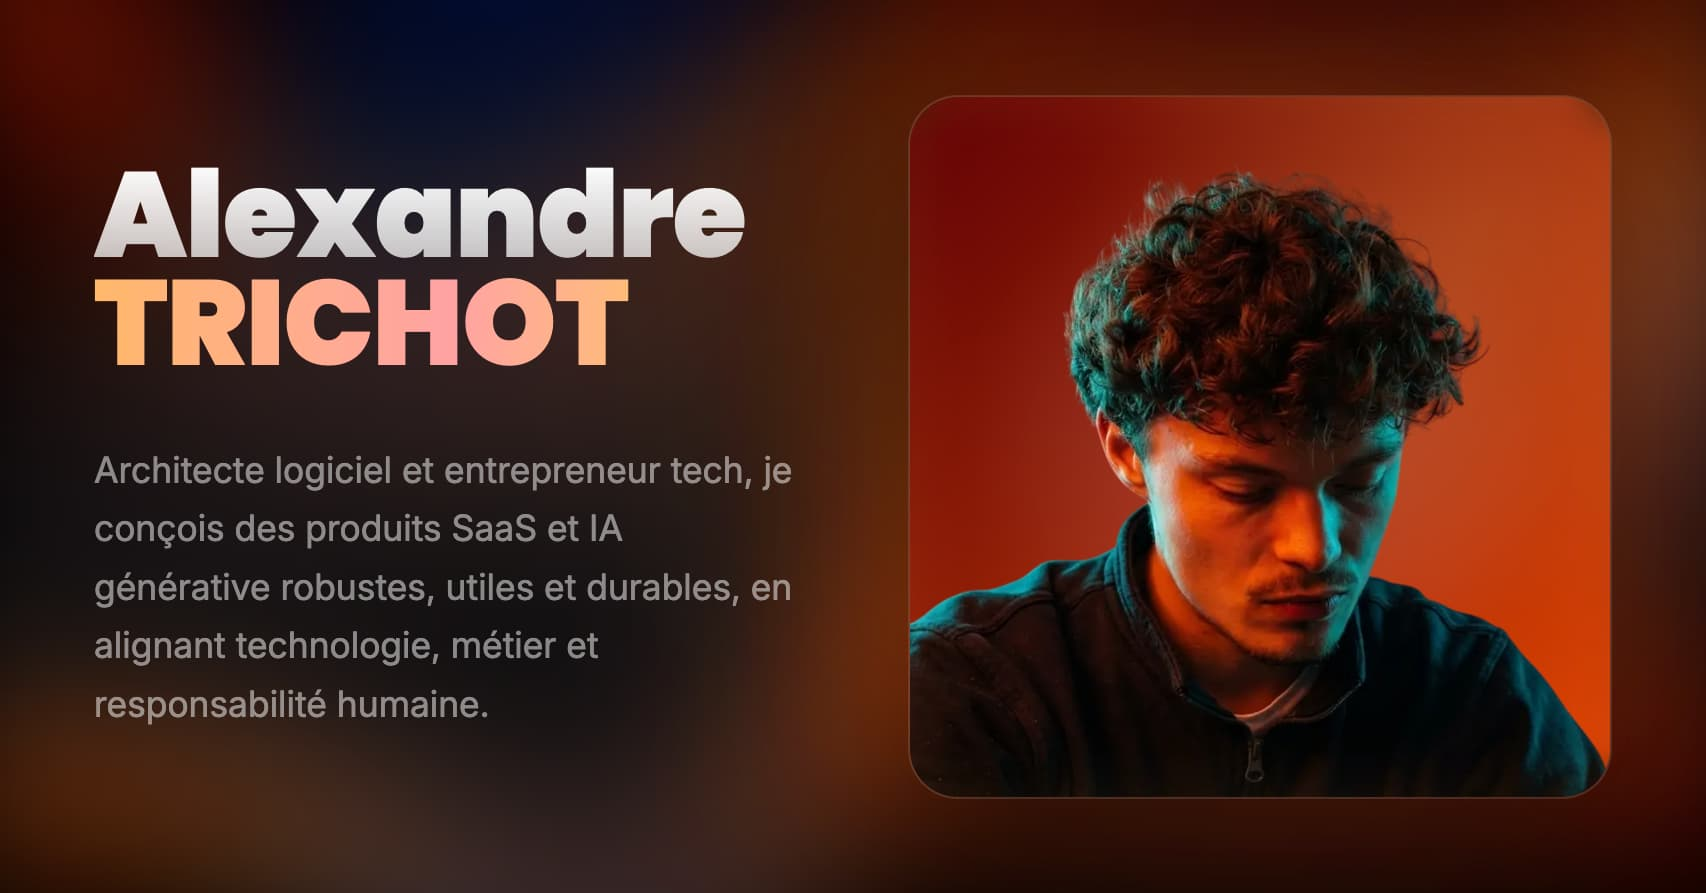
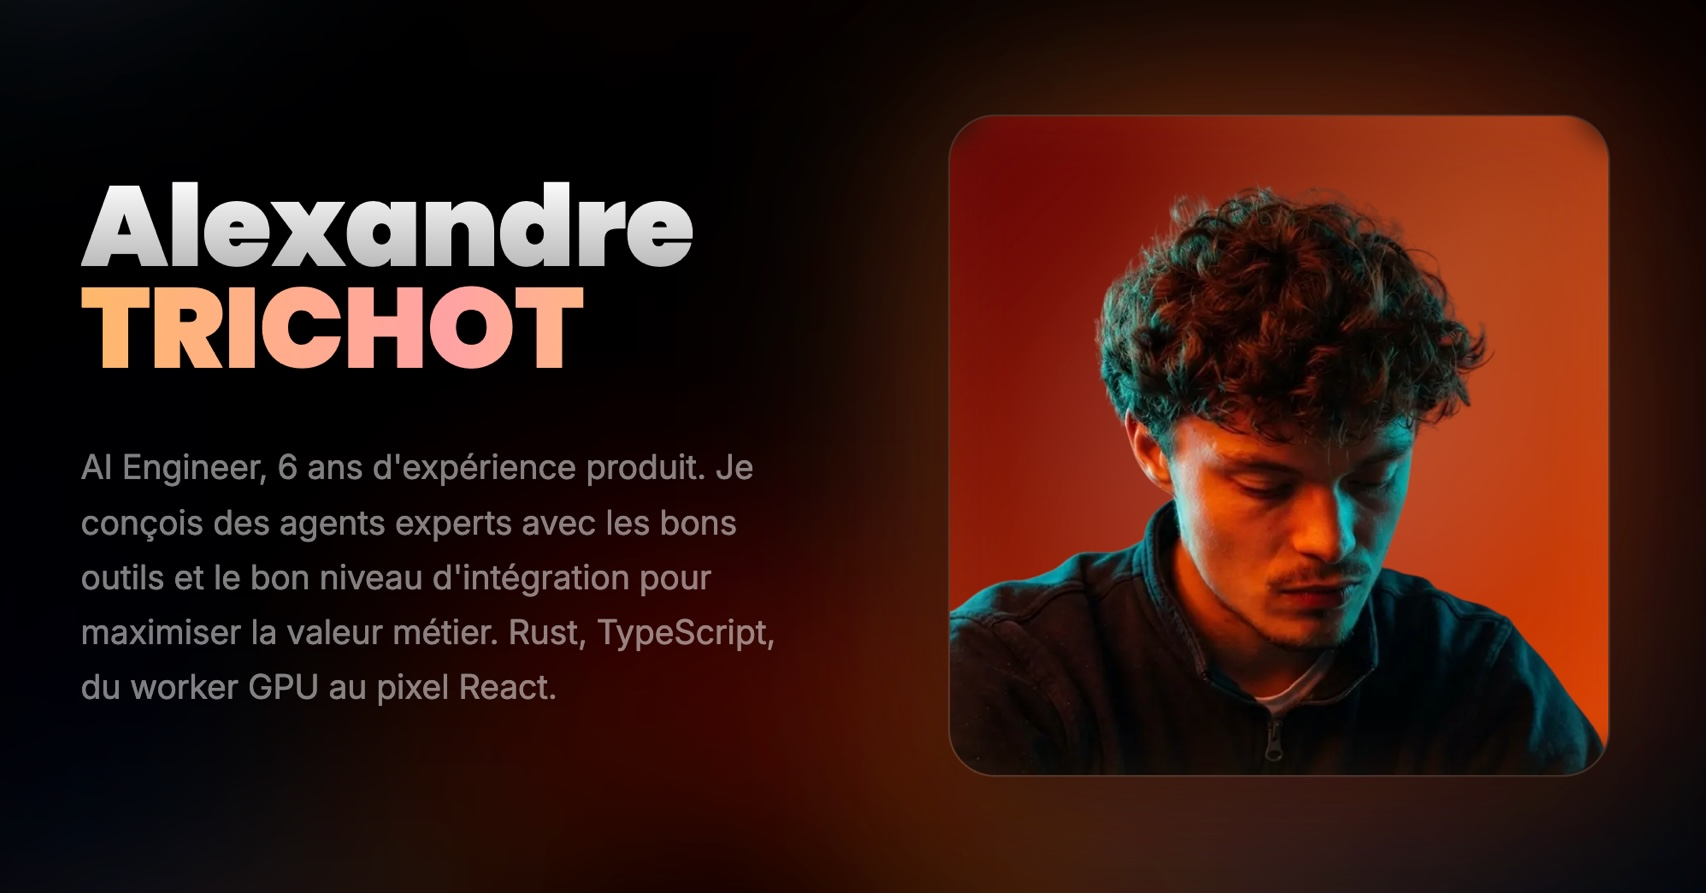
fix: update hero section and meta tags to reflect new AI engineering focus

diff --git a/src/routes/__root.tsx b/src/routes/__root.tsx
@@ -17,11 +17,11 @@ export const Route = createRootRoute({
                 content: "width=device-width, initial-scale=1",
             },
             {
-                title: "Alexandre TRICHOT — Architecte Logiciel & Entrepreneur Tech",
+                title: "Alexandre TRICHOT — AI Engineer",
             },
             {
                 name: "description",
-                content: "Alexandre TRICHOT — Architecte logiciel, entrepreneur tech & créatif. Construire des produits qui durent, mettre la technologie au service du sens.",
+                content: "AI Engineer, 6 ans d'expérience produit. Agents experts, agentic search, parsing documentaire. Rust, TypeScript, du worker GPU au pixel React.",
             },
             {
                 property: "og:url",
@@ -33,11 +33,11 @@ export const Route = createRootRoute({
             },
             {
                 property: "og:title",
-                content: "Alexandre TRICHOT — Architecte Logiciel & Entrepreneur Tech",
+                content: "Alexandre TRICHOT — AI Engineer",
             },
             {
                 property: "og:description",
-                content: "Construire des produits qui durent, mettre la technologie au service du sens.",
+                content: "AI Engineer, 6 ans d'expérience produit. Agents experts, agentic search, parsing documentaire. Rust, TypeScript, du worker GPU au pixel React.",
             },
             {
                 property: "og:image",
@@ -57,11 +57,11 @@ export const Route = createRootRoute({
             },
             {
                 property: "twitter:title",
-                content: "Alexandre TRICHOT — Architecte Logiciel & Entrepreneur Tech",
+                content: "Alexandre TRICHOT — AI Engineer",
             },
             {
                 property: "twitter:description",
-                content: "Alexandre TRICHOT — Architecte logiciel, entrepreneur tech & créatif. Construire des produits qui durent, mettre la technologie au service du sens.",
+                content: "AI Engineer, 6 ans d'expérience produit. Agents experts, agentic search, parsing documentaire. Rust, TypeScript, du worker GPU au pixel React.",
             },
             {
                 property: "twitter:image",

diff --git a/src/components/hero-section.tsx b/src/components/hero-section.tsx
@@ -27,8 +27,7 @@ export function HeroSection() {
 
                     <motion.div initial={{ opacity: 0, y: 20 }} animate={{ opacity: 1, y: 0 }} transition={{ duration: 0.6, delay: 0.5 }} className="text-center md:text-left space-y-6">
                         <p className="mx-auto max-w-lg text-lg leading-relaxed text-white/50 md:mx-0">
-                            Architecte logiciel et entrepreneur tech, je conçois des produits SaaS et IA générative robustes, utiles et durables, en alignant technologie, métier et responsabilité
-                            humaine.
+                            AI Engineer, 6 ans d'expérience produit. Je conçois des agents experts avec les bons outils et le bon niveau d'intégration pour maximiser la valeur métier. Rust, TypeScript, du worker GPU au pixel React.
                         </p>
                         {/* <a
                             href="#vision"
